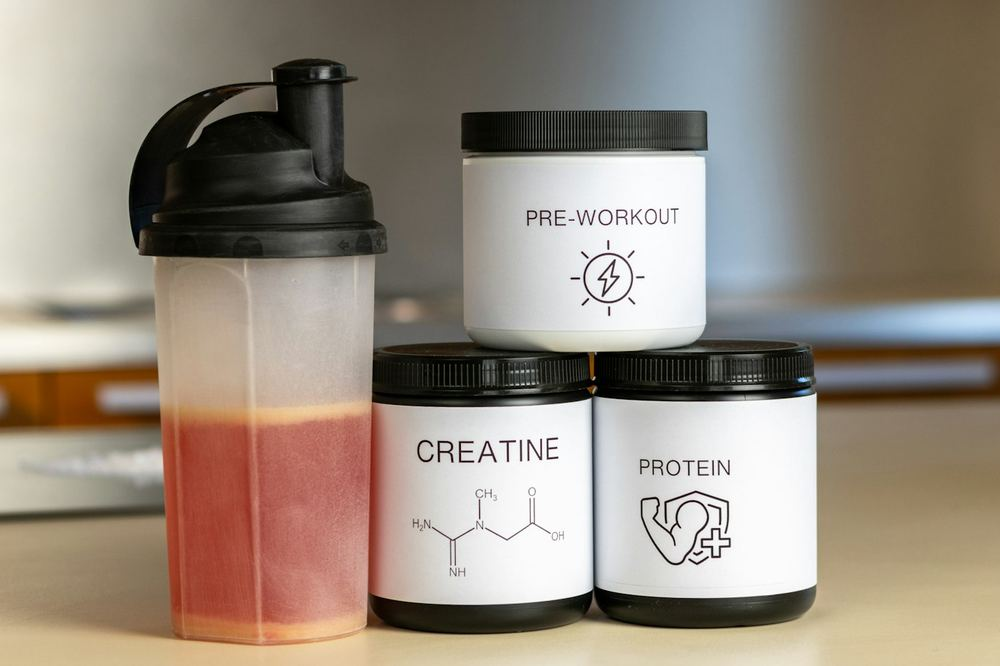
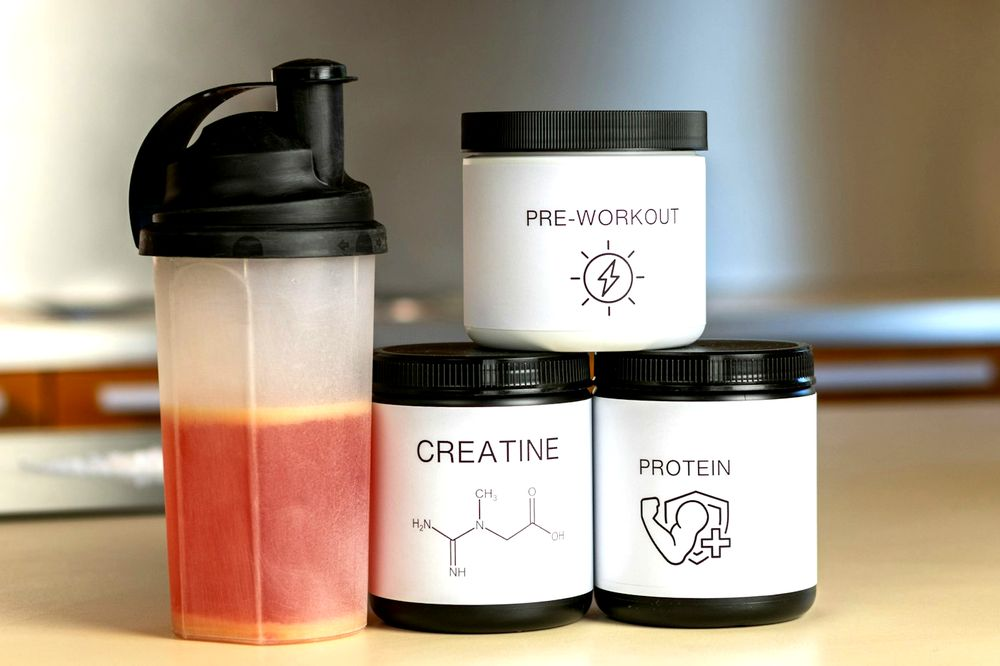
Rebuild fitness hero as a 4-photo collage, brighten the contact card
Hero: replace the single close-up (which cropped the man's face at the
frame edge and read as too dark/distant) with a scattered-card collage
of 4 user-selected photos, alternating women/men, with clean crops
(no watermark artifacts, less dead ceiling space).

Contact card: the dark overlay was hiding the protein/creatine/
pre-workout photo almost entirely. Switch to the same left-to-right
fade used on the hero instead of a flat heavy tint, and add text-shadow
to the white text so it stays readable without the extra darkening.

Claude-Session: https://claude.ai/code/session_0127DN13RaZ2UEjVQk2poARC

diff --git a/fitness/index.html b/fitness/index.html
@@ -81,12 +81,12 @@ section.block{margin-top:30px}
 .clock-note{font-size:13.5px;color:var(--muted);min-width:0}
 .clock-note.closed{color:var(--warn)}
 .contact{position:relative;margin-top:34px;padding:20px;border-radius:12px;display:grid;gap:8px;overflow:hidden;color:#fff;isolation:isolate}
-.contact::before{content:"";position:absolute;inset:0;z-index:-1;background:linear-gradient(120deg,rgba(6,14,15,.88),rgba(6,14,15,.62)),url('assets/contact.jpg') center/cover no-repeat}
-.contact h3{font-size:24px;font-weight:700;color:#fff}
-.contact p{margin:0;color:rgba(255,255,255,.86);font-size:15px}
+.contact::before{content:"";position:absolute;inset:0;z-index:-1;background:linear-gradient(100deg,rgba(6,14,15,.82) 0%,rgba(6,14,15,.42) 55%,rgba(6,14,15,.22) 100%),url('assets/contact.jpg') center/cover no-repeat}
+.contact h3{font-size:24px;font-weight:700;color:#fff;text-shadow:0 1px 10px rgba(0,0,0,.55)}
+.contact p{margin:0;color:rgba(255,255,255,.92);font-size:15px;text-shadow:0 1px 8px rgba(0,0,0,.55)}
 .mailrow{display:flex;flex-wrap:wrap;align-items:center;gap:10px}
-.mail{font-weight:700;color:#fff;font-size:17px;user-select:all;word-break:break-all}
-.pdf{color:#fff;font-weight:600}
+.mail{font-weight:700;color:#fff;font-size:17px;user-select:all;word-break:break-all;text-shadow:0 1px 8px rgba(0,0,0,.55)}
+.pdf{color:#fff;font-weight:600;text-shadow:0 1px 8px rgba(0,0,0,.55)}
 .copy{font:inherit;font-size:13px;border:1px solid rgba(255,255,255,.65);background:rgba(255,255,255,.12);color:#fff;border-radius:6px;padding:4px 10px;cursor:pointer}
 button:focus-visible,input:focus-visible{outline:3px solid var(--accent);outline-offset:2px}
 
